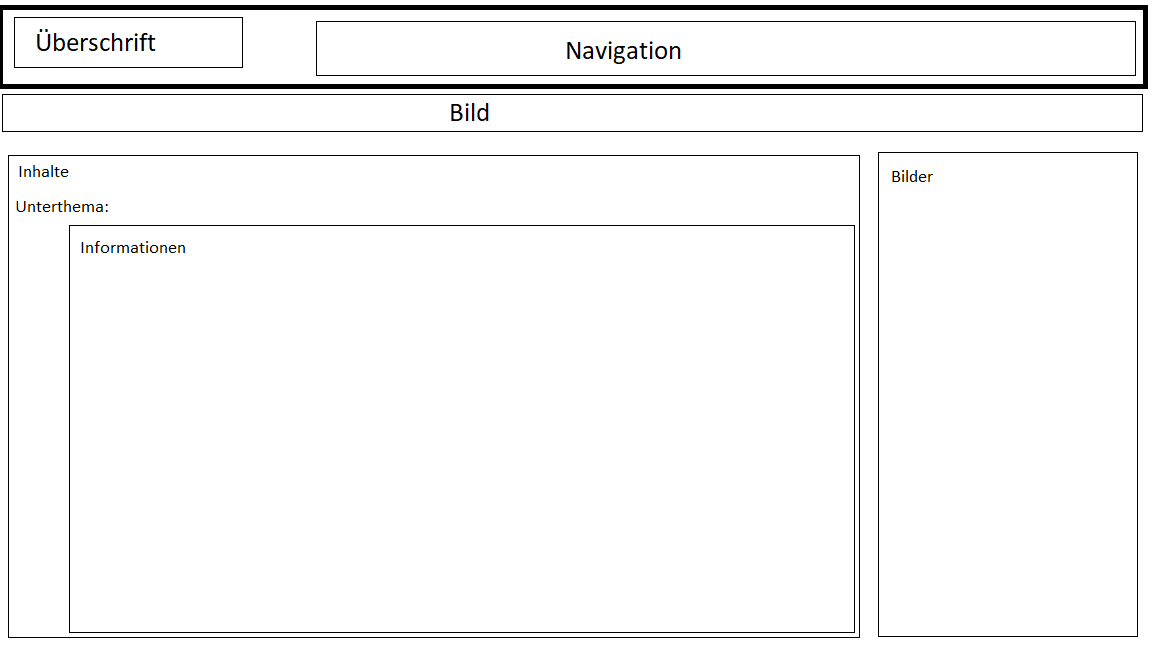
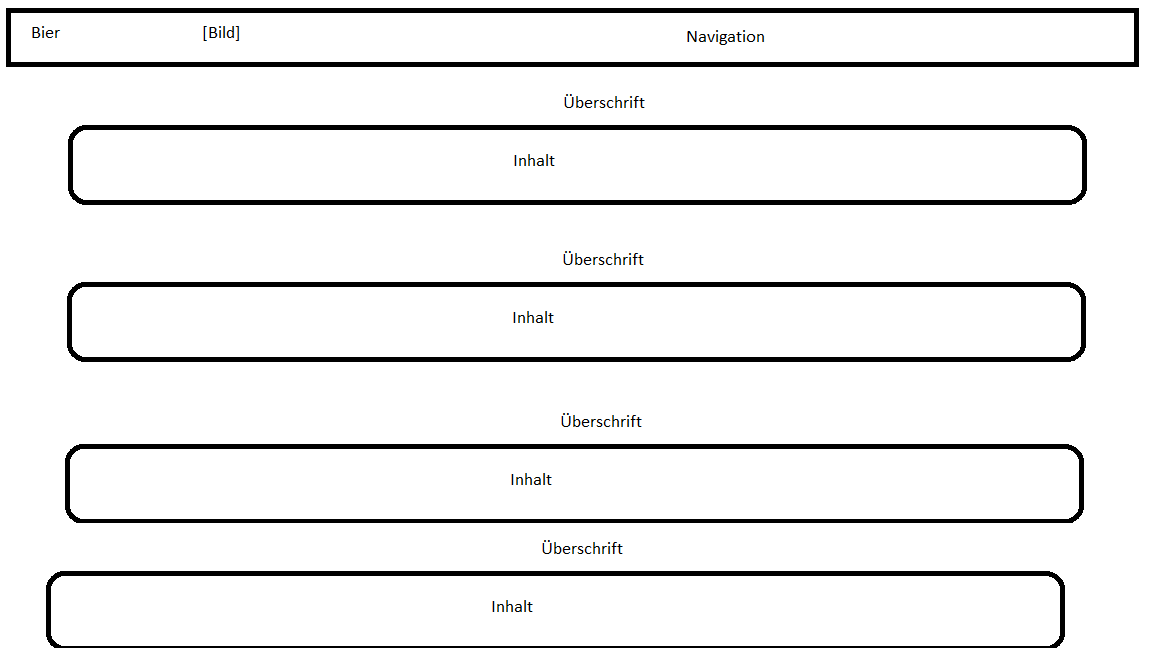
Finalized Project

diff --git a/index.html b/index.html
@@ -1,5 +1,5 @@
 <!DOCTYPE html>
-<html lang="en">
+<html lang="de">
 <head>
     <meta charset="UTF-8">
     <meta http-equiv="X-UA-Compatible" content="IE=edge">
@@ -25,8 +25,62 @@
         <main>
             <article>
                 <section id="definition">
-                    <h1>Lorem</h1>
-                    <h2>Lorem ipsum dolor, sit amet consectetur adipisicing elit. Saepe porro iure adipisci repellat autem, soluta incidunt facilis aliquam maiores voluptatem alias sed pariatur numquam, sapiente error consectetur necessitatibus at quis.</h2>
+                    <h1>Definition</h1>
+                    <div class="content">
+                        <h2>
+                            Bier – ein durch Gärung erzeugtes alkoholisches Getränk, welches schon seit mehreren tausenden von Jahren getrunken wird.
+                            Die derzeit älteste bekannteste Bierbrauerei existierte bereits vor 13.000 Jahren im heutigen Israel und auch einige zurzeit
+                            noch aktive Brauereien gibt es schon seit einigen Jahrhunderten. Ein Lokales Beispiel hierfür wäre die Stieglbrauerei zu Salzburg
+                            welche im Jahre 1492, gleich mit Napoleons Entdeckung Amerikas, gegründet wurde. Die bei uns am weitesten verbreiteten Biere
+                            verfügen über einen Alkoholgehalt von ca. 5 Prozent und werden in 0,5 Liter Flaschen verkauft. Dies entspricht 20 Gramm Alkohol
+                            was bei einem durchschnittlichen männlichen Erwachsenen eine Alkoholisierung von 0,4 Promille hervorruft. Jedoch werden auch
+                            Biere mit mehr, weniger oder gar keinem Ethanol verkauft.
+                        </h2>
+                    </div>
+
+                </section>
+
+                <section id="herstellung">
+                    <h1>Bierherstellung</h1>
+                    <div class="content">
+                    <h2>
+                        Zum Brauen von Bier werden nicht viele Zutaten benötigt. Es reichen Wasser, Hopfen, Malz und Hefe. Das Wasser wird
+                        mit Hopfen und Malz vermischt und mittels Hefe fermentiert. Zu Beginn gibt man das meist Gerstenmalz unter ständigem Rühren in
+                        heißes Wasser wobei Enzyme die Stärke aus dem Malz zu Malzzucker umwandeln, da dieser vergärt werden kann. Dieses Produkt nennt man
+                        dann Würze und das Abfallprodukt ist der Treber. Nun wird der Würze Hopfen hinzugefügt und nach dem Hinzufügen der Hefe auf eine optimale
+                        Gärtemperatur gebracht. Die Hauptgärung ist nach einer Woche abgeschlossen jedoch muss das Bier danach noch einige Wochen gelagert werden.
+                    </h2>
+                    </div>
+
+
+                </section>
+
+                <section id="marken">
+                    <h1>Biermarken</h1>
+                    <div class="content">
+                    <h2>
+                        Der Bierkonsum weltweit sehr verbreitet, weswegen es einige bekannte Brauereien gibt, jedoch sind fast keine Biere weltweit auf dem freien
+                        Markt erhältlich, sondern nur regional. Zum Beispiel kennt jede in Salzburg lebende Person die Stieglbrauerei zu Salzburg aber ein in Wien
+                        lebender hat vermutlich noch nie was davon gehört. Heineken und Corona sind die bekanntesten internationalen Biermarken. Sie wurden in Amsterdam
+                        und Mexiko gegründet. Um nochmal auf Stiegl einzugehen – Die Brauerei wurde bereits im Jahre 1492 gegründet was equivalent zu Columbus’ Entdeckung
+                        Amerikas ist und die Corona Biermarke wurde erst vor 100 Jahren gegründet. Also auch hier kann man die lange und erfolgreiche Geschichte des
+                        Hopfendrinks bemerken.
+                    </h2>
+                    </div>
+
+                </section>
+
+                <section id="auswirkungen">
+                    <h1>Auswirkungen des Bierkonsums</h1>
+                    <div class="content">
+                    <h2>
+                        Da Bier ein alkoholisches Getränk ist hat der Konsum dessen natürlich auch schon bei kleineren Mengen Auswirkungen auf Körper und Geist.
+                        Der reine Alkoholgehalt einer halben Literflasche Bier wird meist unterschätzt. Dieser liegt nämlich bei 20 Gramm Alkohol, zum Vergleich
+                        ein Stamperl Wodka hat nur um die 7 Gramm Ethanol. Deswegen kann schon nach einem einzigen Bier ein Promillewert von 0,4 erreicht werden und
+                        es bei dünneren Personen schon zu einer Fahruntüchtigkeit kommen. Dies ist damit begründet, da durch eine Alkoholisierung die Sinne nachlassen
+                        und eine sichere Autofahrt nicht gewährleistet werden kann. Die Langzeitauswirkung von übermäßigem Bierkonsum ist eine Sucht sowie erhöhte Leberwerte.
+                    </h2>
+                    </div>
 
                 </section>
 
@@ -35,6 +89,10 @@
             </article>
             
         </main>
+
+        <footer>
+            &copy;2023 Konstantin Lasse Schwaighofer
+        </footer>
     </div>
 
     

diff --git a/css/style.css b/css/style.css
@@ -2,12 +2,20 @@
     margin: auto;
     padding: auto;
 }
+br {
+    content: "";
+    display: block;
+    height: 0.15em;
+}
+
+nav {
+    height: 50px;
+}
 
 .nav-list {
     list-style-type: none;
     margin: 0;
     padding: 0;
-    overflow: hidden;
 }
 .nav-item {
     float: left;
@@ -44,6 +52,8 @@ header {
     text-align: center;
     color: #e0afa0;
     background-color: hsl(0, 100%, 39%);
+    position: sticky;
+    top: 0;
 }
 
 img.header-img {
@@ -55,27 +65,43 @@ section {
     font-style: normal;
     font-family: sans-serif;
     text-align: center;
+    margin: 20px;
 }
 
 h1 {
-    font-size: 55px;
-    text-align: left;
-    color: #8a817c
+    font-size: 40px;
+    text-align: center;
+    color: #2D3047;
+    #text-decoration: underline;
+    margin-left: 20px;
+    margin-bottom: 0.35em;
 }
+
+
 
 h2{
-    font-size: 35px;
+    font-size: 30px;
     text-align: left;
-    color: #bcb8b1;
+    color: #8a817c;
+    border: 3px solid black;
+    margin-left: 50px;
+    margin-right: 52px;
+    border-radius: 1em;
+    padding: 10px;
 }
 
-aside {
-    width: 25%;
-    padding: 0.5%;
-    margin: 0 5px 5px 0;
-    background-color: #1C86EE;
-    float: right;
-    border-radius: 1px;
-    min-height: 100%;
-    display: block;
+article {
+    margin-top: 1em;
+}
+
+body {
+    background-color: #C5C8CF;
+}
+.content {
+    text-align: center;
+}
+
+footer {
+    color: #000000;
+    text-align: center;
 }

diff --git a/RAEDME.md b/RAEDME.md
@@ -1,0 +1,75 @@
+Konstantin Lasse Schwaighofer für Günther Kron Christian Doppler Gymnasium Salzburg
+
+Projekt: One-Page Webseite über beliebiges Thema
+
+Thema: Bier
+Behandelte Unterthemen: Definition, Herstellung, Marken u. Brauereien, Auswirkungen
+
+Meilensteine 1 bis 2 sind in diesem Dokument zu finden. Meilenstein 3 wurde in "index.html" sowie "style.css" bearbeitet.
+
+Farben:
+    Header:
+        Main(Background): #c70000
+        Secondary(Text): #e0afa0
+
+    Main:
+        Main(Background): #c5c8cf
+        Secondary(Headlines): #2D3047
+        Third(Text): #8a817c
+    Footer:
+        Main(Text): #000000
+
+Layout:
+    Siehe "Layout.png" - Grobe Skizze der Webseite, ohne Farben oder genauer Darstellung der Seite. Überblick über den Aufbau.
+
+Texte:
+    Definition:
+        Bier – ein durch Gärung erzeugtes alkoholisches Getränk, welches schon seit mehreren tausenden von Jahren getrunken wird.
+        Die derzeit älteste bekannteste Bierbrauerei existierte bereits vor 13.000 Jahren im heutigen Israel[1] und auch einige zurzeit
+        noch aktive Brauereien gibt es schon seit einigen Jahrhunderten. Ein Lokales Beispiel hierfür wäre die Stieglbrauerei zu Salzburg
+        welche im Jahre 1492, gleich mit Napoleons Entdeckung Amerikas, gegründet wurde. Die bei uns am weitesten verbreiteten Biere
+        verfügen über einen Alkoholgehalt von ca. 5 Prozent und werden in 0,5 Liter Flaschen verkauft. Dies entspricht 20 Gramm Alkohol
+        was bei einem durchschnittlichen männlichen Erwachsenen eine Alkoholisierung von 0,4 Promille[2] hervorruft. Jedoch werden auch
+        Biere mit mehr, weniger oder gar keinem Ethanol verkauft.
+
+    Herstellung.
+        Zum Brauen von Bier werden nicht viele Zutaten benötigt. Es reichen Wasser, Hopfen, Malz und Hefe. Das Wasser wird
+        mit Hopfen und Malz vermischt und mittels Hefe fermentiert. Zu Beginn gibt man das meist Gerstenmalz unter ständigem Rühren in
+        heißes Wasser wobei Enzyme die Stärke aus dem Malz zu Malzzucker umwandeln, da dieser vergärt werden kann. Dieses Produkt nennt man
+        dann Würze und das Abfallprodukt ist der Treber. Nun wird der Würze Hopfen hinzugefügt und nach dem Hinzufügen der Hefe auf eine optimale
+        Gärtemperatur gebracht. Die Hauptgärung ist nach einer Woche abgeschlossen jedoch muss das Bier danach noch einige Wochen gelagert werden.
+
+    Marken u. Brauereien:
+        Der Bierkonsum weltweit sehr verbreitet, weswegen es einige bekannte Brauereien gibt, jedoch sind fast keine Biere weltweit auf dem freien
+        Markt erhältlich, sondern nur regional. Zum Beispiel kennt jede in Salzburg lebende Person die Stieglbrauerei zu Salzburg aber ein in Wien
+        lebender hat vermutlich noch nie was davon gehört. Heineken und Corona sind die bekanntesten internationalen Biermarken. Sie wurden in Amsterdam
+        und Mexiko gegründet. Um nochmal auf Stiegl einzugehen – Die Brauerei wurde bereits im Jahre 1492 gegründet was equivalent zu Columbus’ Entdeckung
+        Amerikas ist und die Corona Biermarke wurde erst vor 100 Jahren gegründet. Also auch hier kann man die lange und erfolgreiche Geschichte des
+        Hopfendrinks bemerken.
+
+    Auswirkungen:
+        Da Bier ein alkoholisches Getränk ist hat der Konsum dessen natürlich auch schon bei kleineren Mengen Auswirkungen auf Körper und Geist.
+        Der reine Alkoholgehalt einer halben Literflasche Bier wird meist unterschätzt. Dieser liegt nämlich bei 20 Gramm Alkohol, zum Vergleich
+        ein Stamperl Wodka hat nur um die 7 Gramm Ethanol. Deswegen kann schon nach einem einzigen Bier ein Promillewert von 0,4 erreicht werden und
+        es bei dünneren Personen schon zu einer Fahruntüchtigkeit kommen. Dies ist damit begründet, da durch eine Alkoholisierung die Sinne nachlassen
+        und eine sichere Autofahrt nicht gewährleistet werden kann. Die Langzeitauswirkung von übermäßigem Bierkonsum ist eine Sucht sowie erhöhte Leberwerte.
+
+
+
+
+Info Quellenangaben:
+    Unten aufgelistet sind alle Quellenangaben, nach Vorkommen im Text sortiert. Jede durch [] gekennzeichnete Zahl im Text verweißt auf eine Quelle.
+    Dies ist nur in diesem Dokument sichtbar. Auf der Webseite wurde aufgrund der Lesbarkeit auf Quellenangaben verzichtet. Da ich aufgrund meiner
+    Eigeninteresse einiges über dieses Thema weiß wurden nicht sehr viele Quellen benötigt.
+
+Quellen:
+    [1]:"Römpp Lexikon Chemie – Thieme Online Lexikon" https://roempp.thieme.de/lexicon/RD-02-01263 15.01.23
+    [2]:"Smart-Rechner Online Promillerechner" https://www.smart-rechner.de/promille/rechner.php#_0 15.01.23
+
+
+
+Ich bestätige, dass alle Meilensteine des Projekts eigens ausgearbeitet wurden und gegebenenfalls Quellen angegeben wurden.
+
+
+
+
